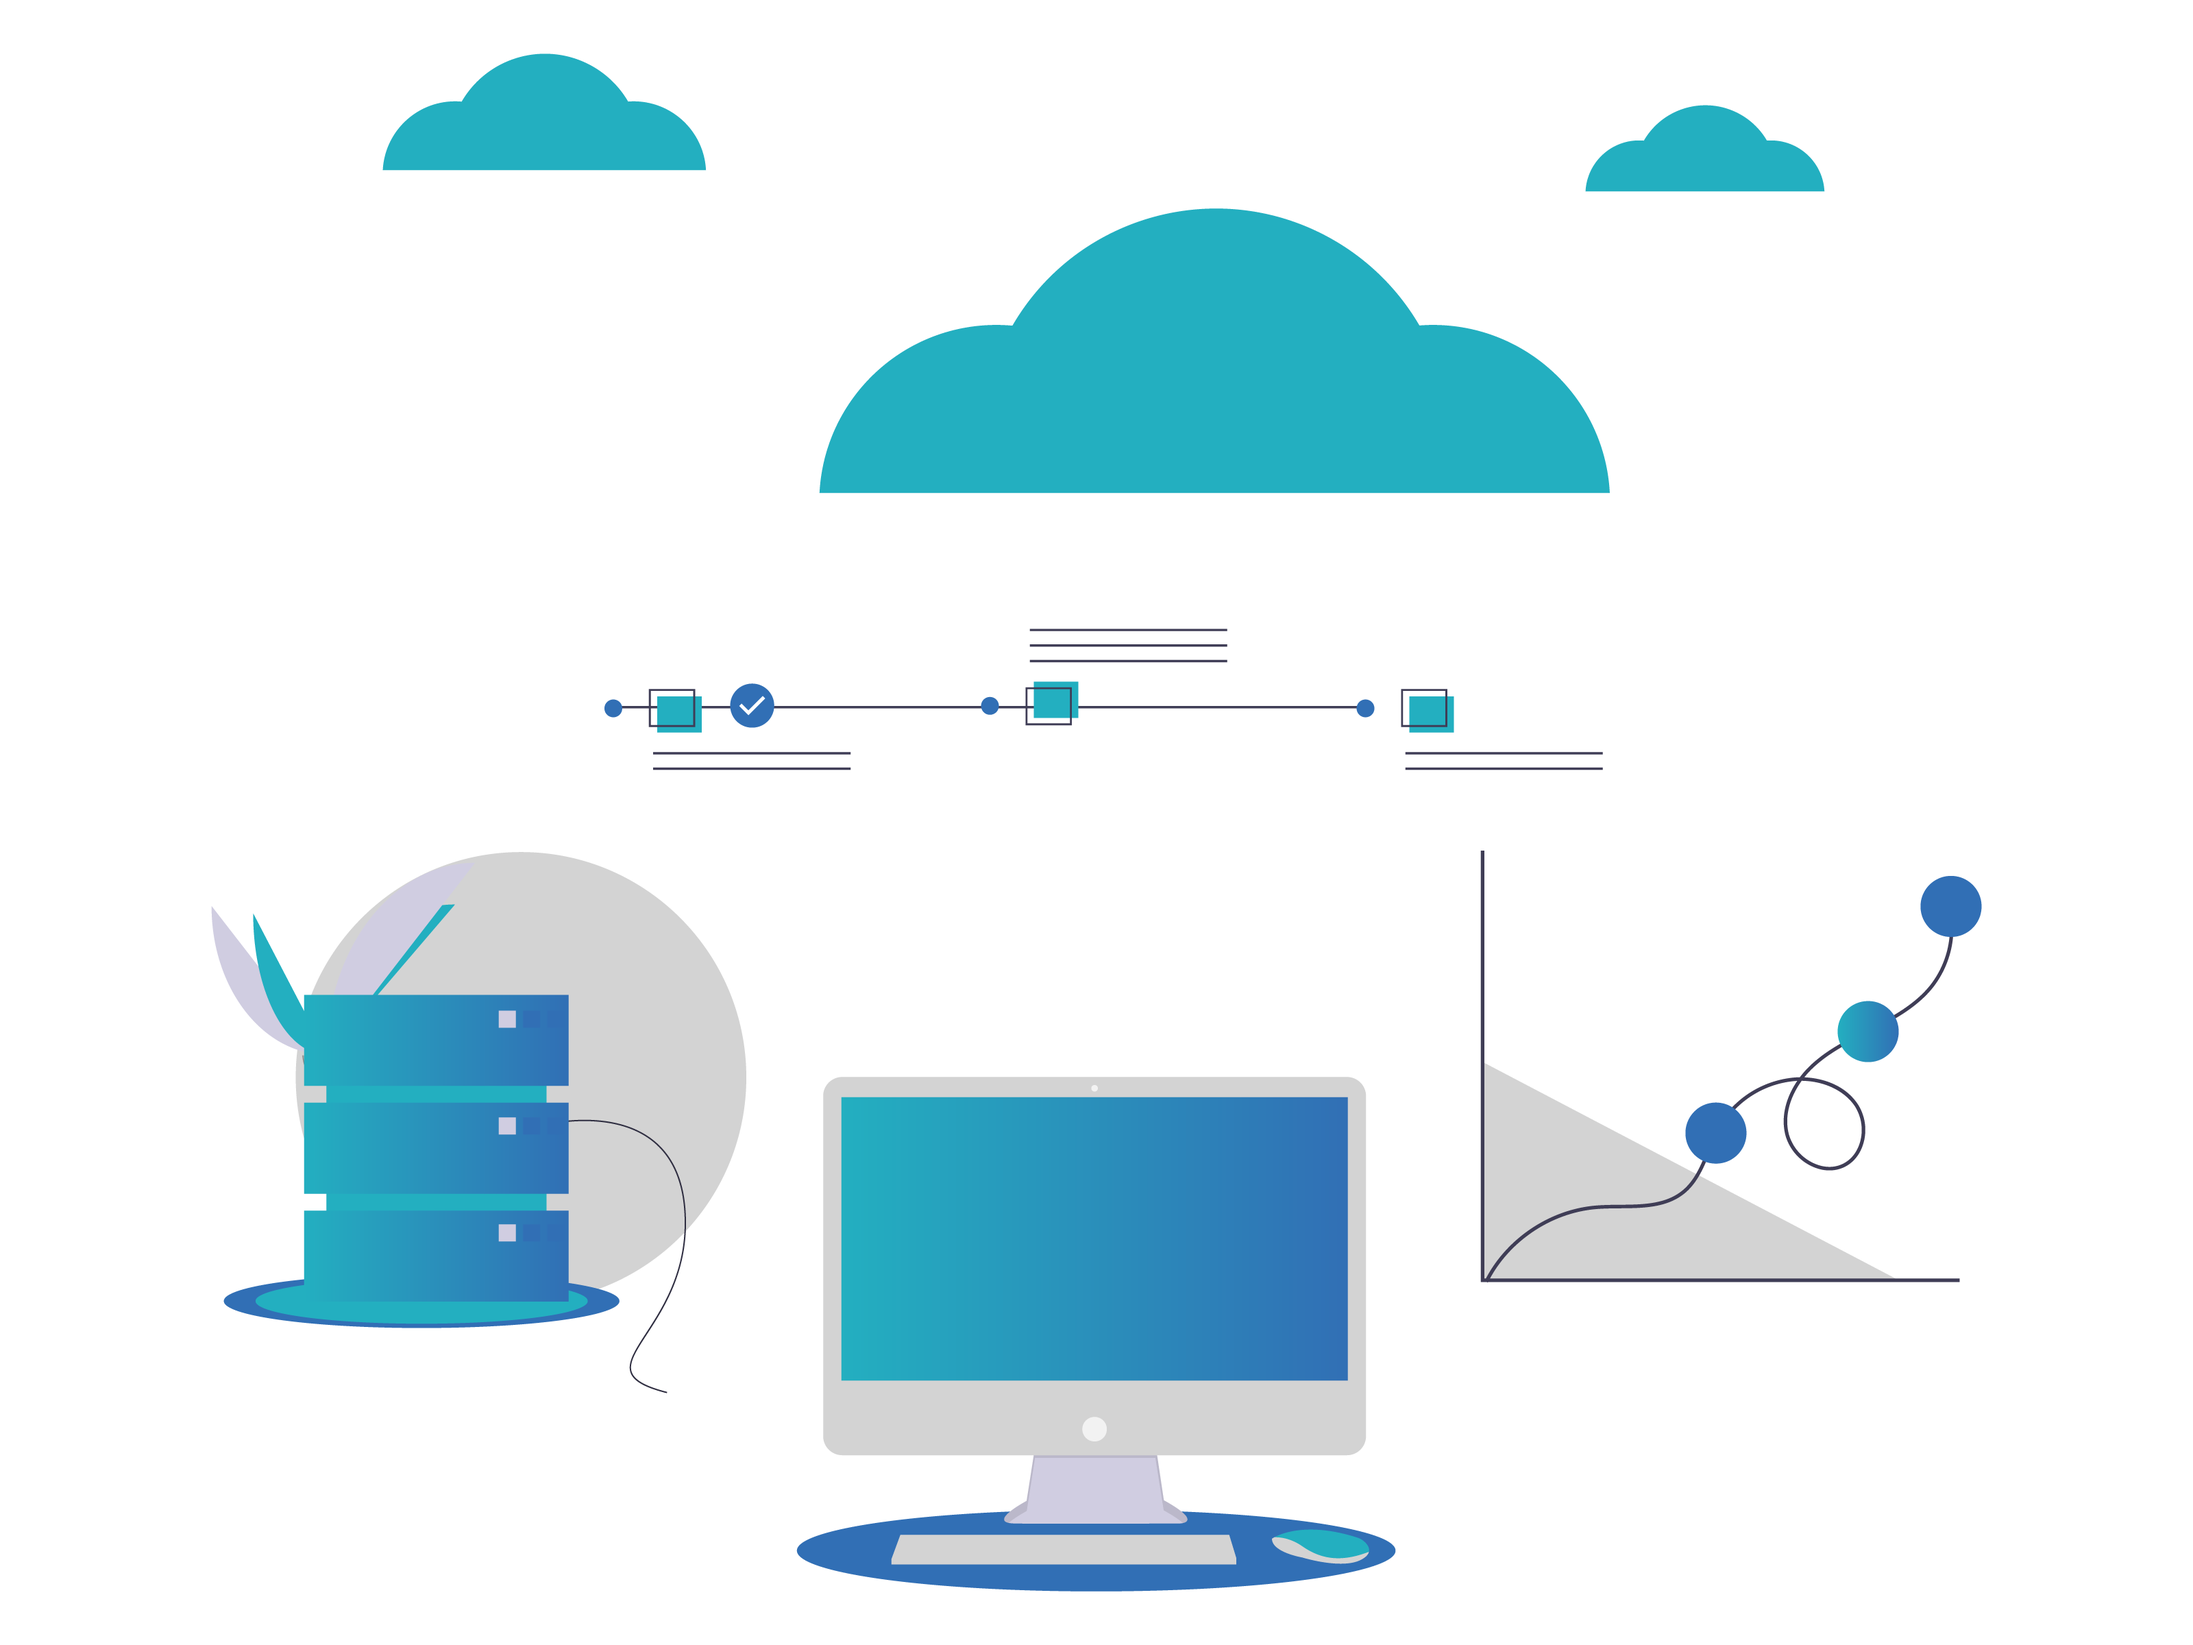
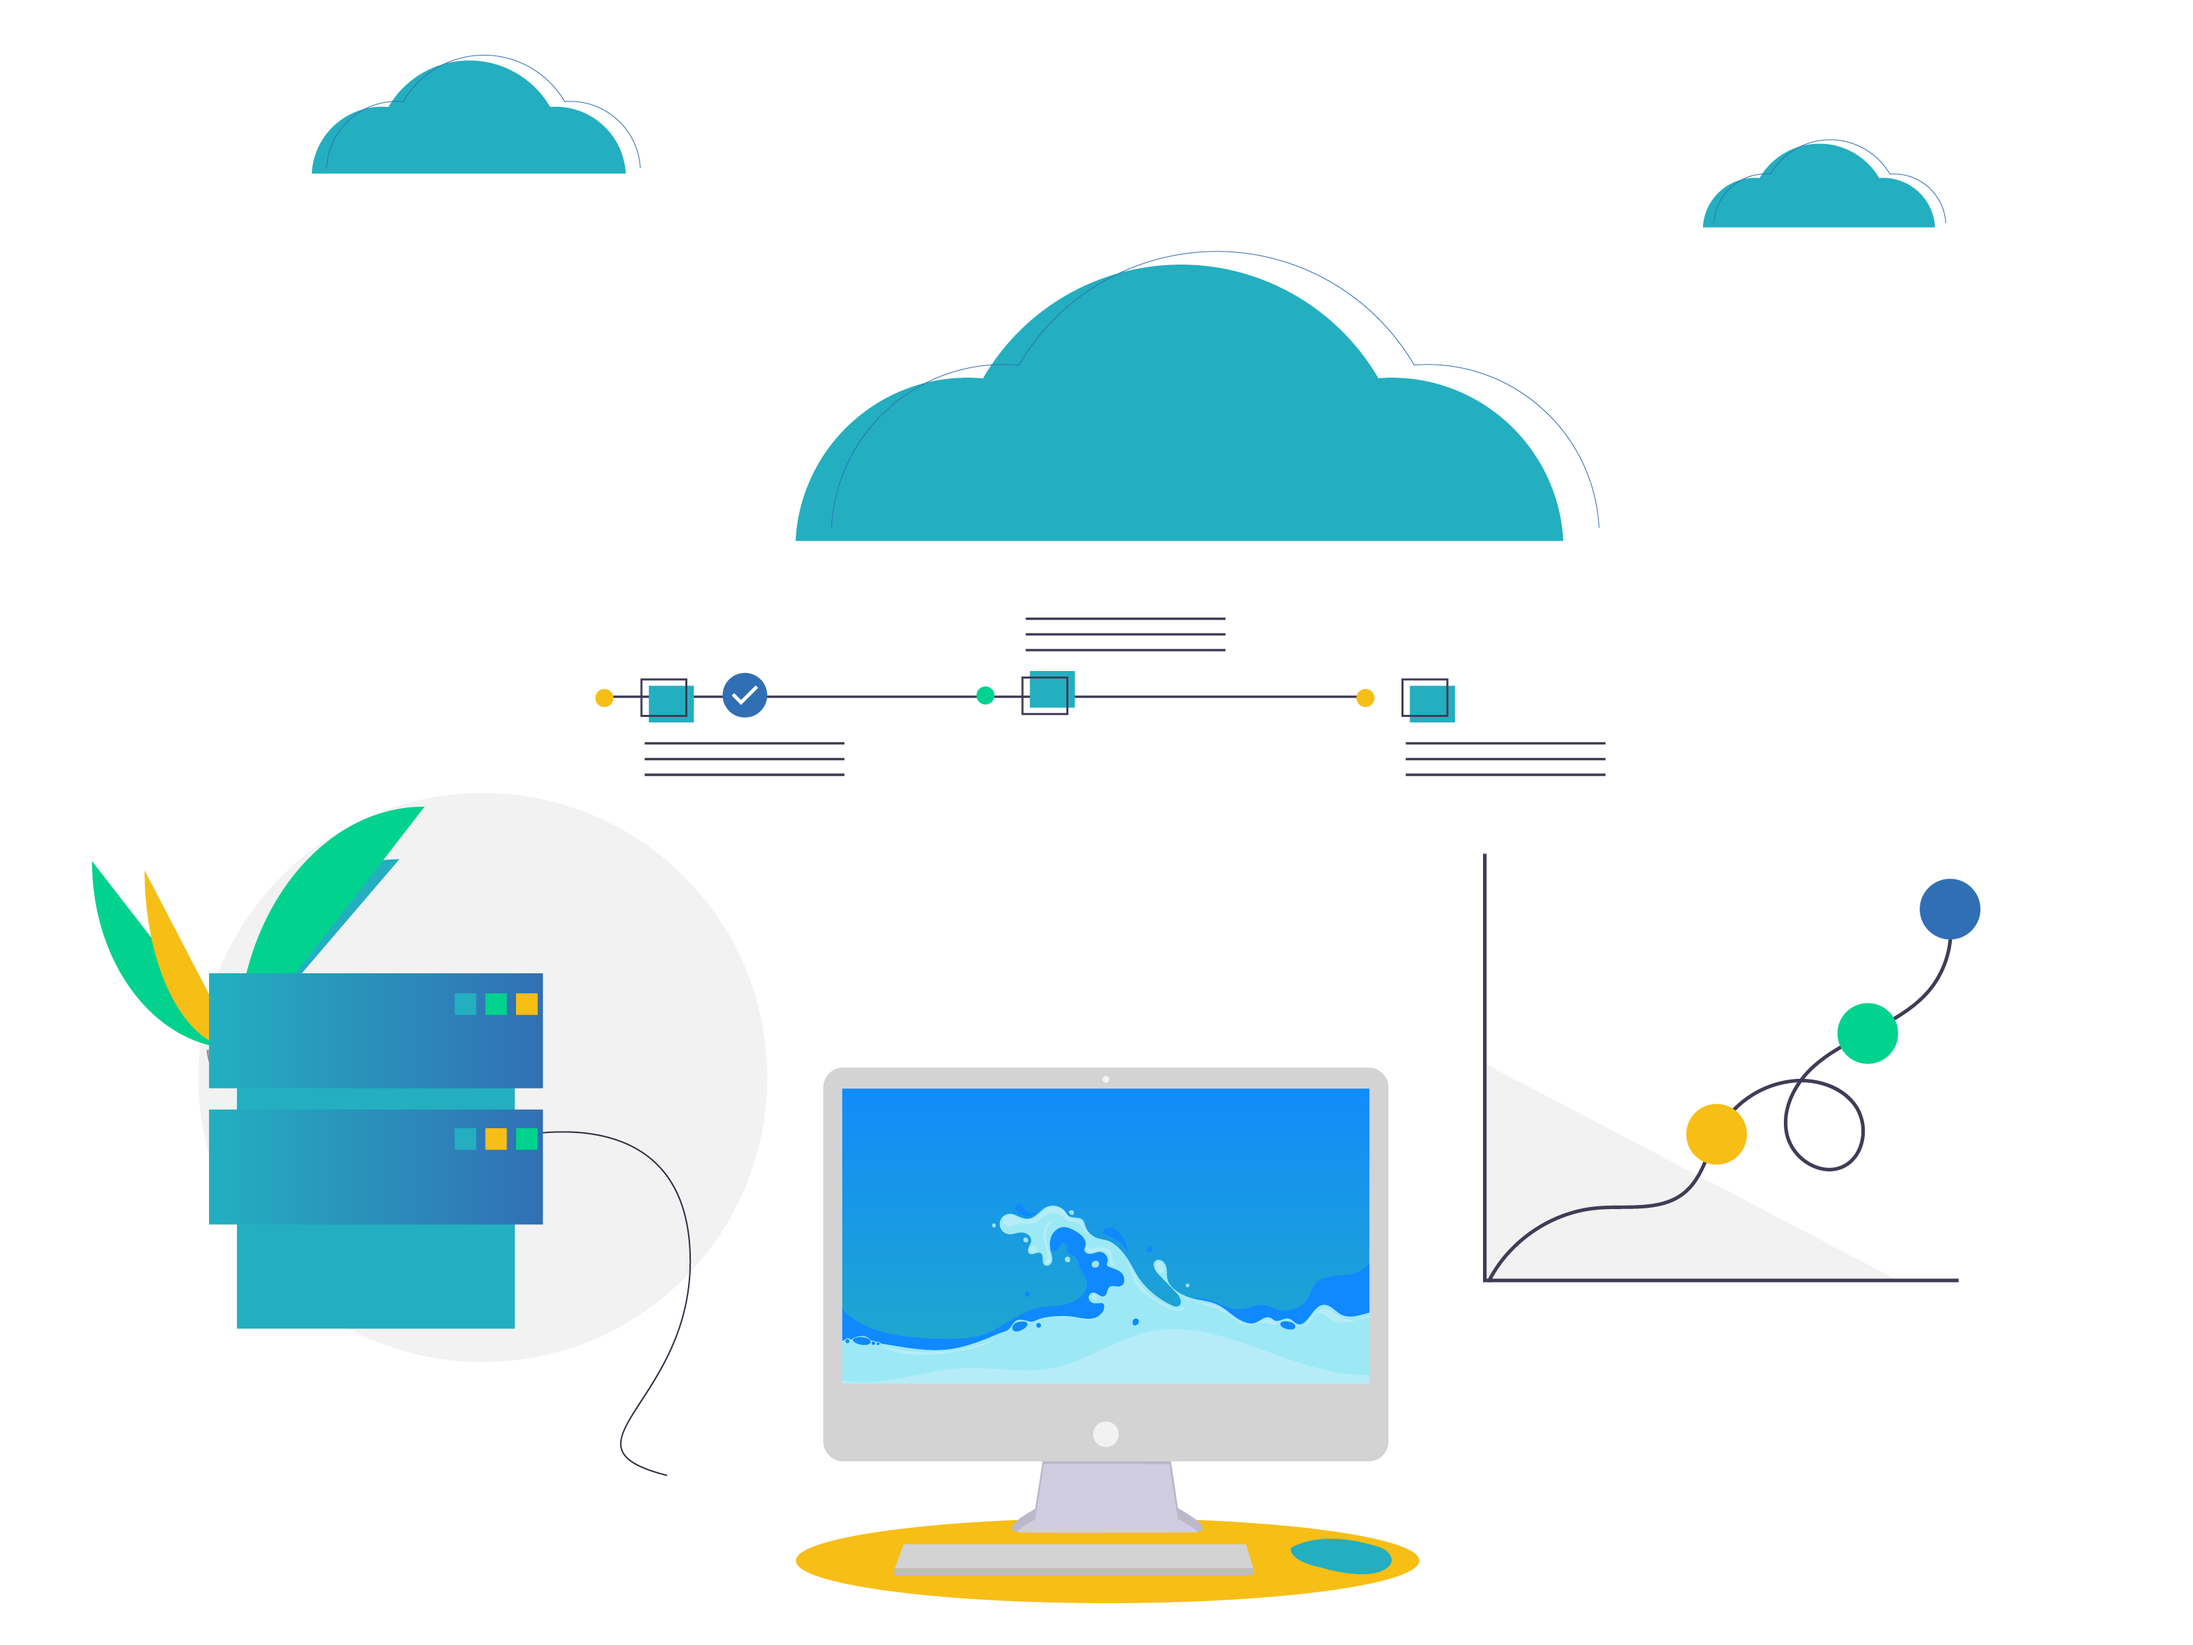
feat(design): making the site pop and updated content

diff --git a/assets/css/style.css b/assets/css/style.css
@@ -273,11 +273,13 @@ button:focus {
 }
 
 .btn-gradient {
+    background: #f7be16;
     /* background: #2AAFC0;
     background: -webkit-gradient(linear, left top, right bottom, from(#2154cf), to(#6ec5ff));
     background: linear-gradient(to bottom right, #2154cf, #6ec5ff); */
-    background: #316fb5;
-    background: linear-gradient(to bottom right,#316fb5,#23afc0);
+    /* background: #316fb5; */
+    background: linear-gradient(to bottom right,#ffbf00,#e3f197);
+    /* background: linear-gradient(to bottom right,#316fb5,#23afc0); */
     color: #fff;
     font-size: 14px;
     transition: all 0.5s;
@@ -401,6 +403,10 @@ button:focus {
     color: #000;
     transition: all 0.5s;
     font-size: 22px;
+}
+
+.social_menu li a i {
+    color: #f7be16;
 }
 
 .custom_nav .navbar-brand.logo img {
@@ -608,7 +614,8 @@ button:focus {
     border-radius: 50%;
     position: absolute;
     left: calc(50% - 3px);
-    background: #2aafc0;
+    background: #f7be16;
+    /* background: #2aafc0; */
     -webkit-animation: scroll .5s infinite alternate;
     animation: scroll .5s infinite alternate;
 }
@@ -662,8 +669,10 @@ button:focus {
 .features_axi_box .features_axi_icon i {
     color: #ffffff;
     font-size: 26px;
-    background: -webkit-gradient(linear,left top,right bottom,from(#316fb5),to(#23afc0));
-    background: linear-gradient(to bottom right,#23afc0,#316fb5);
+    background: -webkit-gradient(linear,left top,right bottom,from(#fcbd02),to(#e3f197));
+    /* background: -webkit-gradient(linear,left top,right bottom,from(#316fb5),to(#23afc0)); */
+    background: linear-gradient(to bottom right,#e3f197,#fabc02);
+    /* background: linear-gradient(to bottom right,#23afc0,#316fb5); */
     /* background: linear-gradient(to bottom right, #2154cf, #6ec5ff); */
     height: 60px;
     display: inline-block;
@@ -803,9 +812,12 @@ button:focus {
     font-size: 26px;
     box-shadow: 0 0 0px 8px rgba(70, 138, 230, 0.17);
     line-height: 54px;
-    background: #2AAFC0;
-    background: -webkit-gradient(linear, left top, right bottom, from(#2154cf), to(#6ec5ff));
-    background: linear-gradient(to bottom right,#23afc0,#316fb5);
+    /* background: #2AAFC0; */
+    background: #f7be16;
+    background: -webkit-gradient(linear, left top, right bottom, from(#fabc03), to(#e3f197));
+    /* background: -webkit-gradient(linear, left top, right bottom, from(#2154cf), to(#6ec5ff)); */
+    background: linear-gradient(to bottom right,#e3f197,#f5b803);
+    /* background: linear-gradient(to bottom right,#23afc0,#316fb5); */
     /* background: linear-gradient(to bottom right, #2154cf, #6ec5ff); */
     color: #fff;
     border-radius: 50%;
@@ -1102,6 +1114,9 @@ button:focus {
     margin-right: 0px !important;
 }
 
+.page_title_list ul li {
+    color: #316fb5;
+}
 
 /*-------HOW IT WORK------*/
 
@@ -1110,6 +1125,10 @@ button:focus {
     border: 1px solid #f0f0f0;
     padding: 50px 30px;
     overflow: hidden;
+}
+
+.hit_box i {
+    color: #23afc0;
 }
 
 .hit_box .hit_icon {
@@ -2237,7 +2256,9 @@ i.mdi {
     /* -webkit-transition: all 0.4s;
     transition: all 0.4s; */
 }
-
+.copy-rights i {
+    color: #f7be16 !important;
+}
 /* about us culture cards */
 .card.card-no-border {
     border-width: 0;

diff --git a/pages/about-us/purpose.vue b/pages/about-us/purpose.vue
@@ -7,11 +7,53 @@
         .row
           .col-lg-12
             .section_title.text-center
-              p.small_title.mb-4.text-custom.text-uppercase Transformation Story
-              h2.text-capitalize.mx-auto.section_header Positive Impact
+              p.small_title.mb-4.text-custom.text-uppercase Who We Are
+              h2.text-capitalize.mx-auto.section_header Our Purpose
               p.sec_subtitle.pt-3.text-muted.mx-auto
-                | We endeavour to positively impact the lives of those in the community through not only giving back but also creating products that help them live better.
-        .row.mt-5.vertical-content
+                | The personal approach towards clients is our main principle.
+        .row.mt-3
+          .col-lg-6
+            .text-center.position-relative.hit_box.rounded.mt-3
+              .hit_icon.text-custom
+                i.pe-7s-arc
+              .hit_content.mt-2
+                h5.font-weight-bold Our Mission
+                p.mt-3.text-muted.mb-0
+                  | Ziel Investments works to enhance the dignity and quality of life of individuals and families by strengthening communities, eliminating barriers to opportunity, and helping people in need reach their full potential through learning and the power of work.
+          .col-lg-6
+            .text-center.position-relative.hit_box.rounded.mt-3
+              .hit_icon.text-custom
+                i.pe-7s-anchor
+              .hit_content.mt-2
+                h5.font-weight-bold Our Vision
+                p.mt-3.text-muted.mb-0
+                  | Every person has the opportunity to achieve his/her fullest potential and participate in and contribute to all aspects of life.
+        //- .row.mt-5
+          .col-lg-4
+            .text-center.features_axi_box.mt-3.rounded
+              .features_axi_icon
+                i.mdi.mdi-airplay
+              .features_axi_content.mt-4
+                h5 We Keep You Updated
+                p.mt-3.text-muted.mb-0
+                  | We keep clients informed every step of the way. No surprises. Simply peace of mind.
+          .col-lg-4
+            .text-center.features_axi_box.active.mt-3.rounded
+              .features_axi_icon
+                i.mdi.mdi-timelapse
+              .features_axi_content.mt-4
+                h5 We Deliver On Time
+                p.mt-3.text-muted.mb-0
+                  | We work hard to make sure all services are rendered on time but without compromising quality.
+          .col-lg-4
+            .text-center.features_axi_box.mt-3.rounded
+              .features_axi_icon
+                i.mdi.mdi-check-all
+              .features_axi_content.mt-4
+                h5 We Deliver Results
+                p.mt-3.text-muted.mb-0
+                  | Our ultimate goal is to satisfy the client, which is why we are committed to deliver tangible results.
+        //- .row.mt-5.vertical-content
           .col-lg-6
             //- Todo: write some good stuff on impact made
             .faq_main.mt-3

diff --git a/pages/products/ziel-fresh.vue b/pages/products/ziel-fresh.vue
@@ -37,7 +37,7 @@
                 .features-desc
                   h3.features-title Sealed To Perfection
                   p.features-sub-title.pt-2
-                    | When you open a bottle of Zeil Fresh Water, we want it to be an experience. Luxury and quality should be an option for everyone - and we have strived to produce a product worthy of our consumers and the Zeil  brand.
+                    | When you open a bottle of Ziel Fresh Water, we want it to be an experience. Luxury and quality should be an option for everyone - and we have strived to produce a product worthy of our consumers and the Ziel  brand.
               .features
                 .features-icon.features-left
                   i.mdi.mdi-check
@@ -51,7 +51,7 @@
                 .features-desc
                   h3.features-title Ultra Modern Manufacturing Facility
                   p.features-sub-title.pt-2
-                    | Zeil Fresh  premium is manufactured in the state-of-the-art, ultra modern and computerised equipment with stringent quality control measures.
+                    | Ziel Fresh  premium is manufactured in the state-of-the-art, ultra modern and computerised equipment with stringent quality control measures.
       .features_side_mockup.d-lg-block.d-xl-block.d-none.right
         img.img-fluid.mx-auto.d-block(src="~/assets/images/products/ziel-fresh.jpeg" alt="")
     // End Description
@@ -74,7 +74,7 @@
               .hit_content.mt-2
                 h5.font-weight-bold Our Initiatives
                 p.mt-3.text-muted.mb-0
-                  | Zeil Fresh embraces the role it has to play in helping to forge a sustainable future for human beings and the planet.
+                  | Ziel Fresh embraces the role it has to play in helping to forge a sustainable future for human beings and the planet.
     // Start How It Work
     Cta
 </template>

diff --git a/components/AppHeader.vue b/components/AppHeader.vue
@@ -16,8 +16,6 @@
             ul.sec_sub_menu
               li.nav-item(:class="activeLink('/about-us')")
                 nuxt-link.nav-link(to="/about-us") Our Story
-              li.nav-item(:class="activeLink('/about-us/leadership')")
-                nuxt-link.nav-link(to="/about-us/leadership") Leadership
               li.nav-item(:class="activeLink('/about-us/positive-impact')")
                 nuxt-link.nav-link(to="/about-us/positive-impact") Positive Impact
               li.nav-item(:class="activeLink('/about-us/purpose')")
